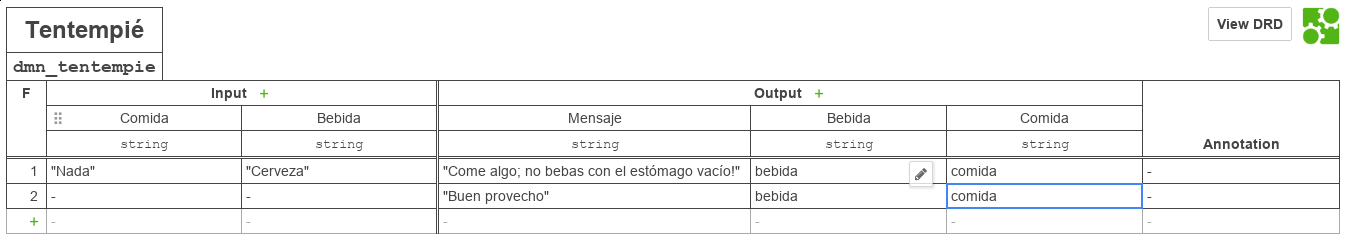
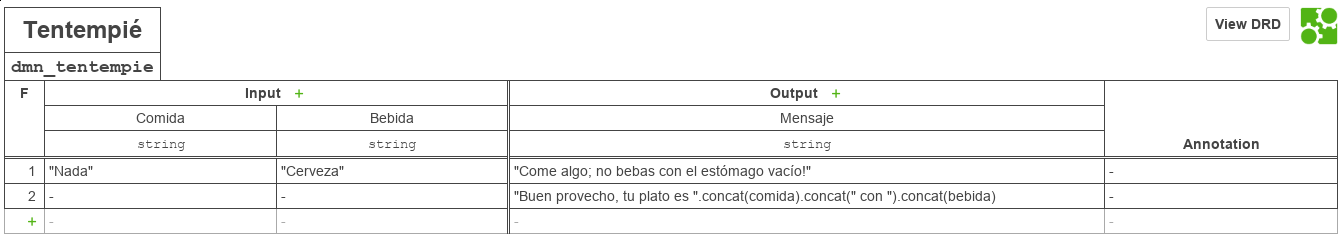
Simplificación ejercicio

diff --git a/DMN/Elegir tentempie/readme.md b/DMN/Elegir tentempie/readme.md
@@ -5,8 +5,8 @@
 | :---: | :---                              | :---                                                                                                                                                                                                                                                                                                                                                                                                                                                                                        |
 |     1 | **StartEvent**                    | 1. En la pestaña 'General', configura el parámetro **Initiator** = 'starter'<br>'starter' es una variable en la que almacenaremos el ID de la persona que inicia el flujo.                                                                                                                                                                                                                                                                                                                                                                                                                |
 |     2 | **'Ingresar datos' User Task** | 1 En la pestaña 'General', configura el parámetro **Assignee** = '${starter}'.<br>2. En la pestaña 'Forms' agrega variables del siguiente modo:<br>2a. **ID** = 'dia', **Type** = 'enum', **Label** = 'Día de la semana', <br> **Values** <br> **Id** = 'lunes', **Name** = 'Lunes' <br>  **Id** = 'martes', **Name** = 'Martes' <br> **Id** = 'miercoles', **Name** = 'Miércoles' <br> **Id** = 'jueves', **Name** = 'Jueves' <br> **Id** = 'viernes', **Name** = 'Viernes' <br> **Id** = 'sabado', **Name** = 'Sábado' <br> **Id** = 'domingo', **Name** = 'Domingo' <br>**Validation** <br> **name** = 'required'<br><br>2b. **ID** = 'hora', **Type** = 'long', **Label** = 'Hora del día', <br> **Validation** <br> **name** = 'required' <br> **name** = 'min', **Config** = '1' <br> **name** = 'max', **Config** = '24'. <br><br> 2c. **ID** = 'hambre', **Type** = 'enum', **Label** = 'Cuanta hambre tienes?', <br> **Values** <br> **Id** = 'poca', **Name** = 'Poca' <br> **Id** = 'media', **Name** = 'Media' <br> **Id** = 'mucha', **Name** = 'Mucha'<br><br>2d. **ID** = 'trabajo', **Type** = 'boolean', **Label** = 'Aún no terminas de trabajar?'                                 |
-|     3 | **'Mostrar resultados' User Task** | 1. En la pestaña 'General', configura el parámetro **Assignee** = '${starter}'.<br>2. En la pestaña 'Forms', agrega una variable del siguiente modo:<br>2a. **ID** = 'comida', **Type** = 'string', **Label** = 'Comida'. <br> **Validation** <br> **name** = 'readonly'.  <br><br>2b. **ID** = 'bebida', **Type** = 'string', **Label** = 'Bebida'. <br> **Validation** <br> **name** = 'readonly'<br><br>2c. **ID** = 'mensaje', **Type** = 'string', **Label** = 'Mensaje'. <br> **Validation** <br> **name** = 'readonly'                                                                                                                                                    |
-|     4 | **'Seleccionar tentempié' Business Rule Task** | 1. En la pestaña 'General', configura el parámetro **Implementation** = 'DMN', **Desicion Ref** = 'dmn_tentempie', **Result Variable** = 'resultado', **Map Desicion Result** = 'singleResult'. <br> 2. En la pestaña "Input/Output" agregar los siguientes "Output Parameters": <br> 2a. **Name** = 'comida', **Type** = 'Text', **Value** = '${resultado.comida}' <br>   2b. **Name** = 'bebida, **Type** = 'Text', **Value** = '${resultado.bebida}' <br> 2c. **Name** = 'mensaje', **Type** = 'Text', **Value** = '${resultado.mensaje}'|
+|     3 | **'Mostrar resultados' User Task** | 1. En la pestaña 'General', configura el parámetro **Assignee** = '${starter}'.<br>2. En la pestaña 'Forms', agrega una variable del siguiente modo:<br>2a. **ID** = 'mensaje', **Type** = 'string', **Label** = 'Mensaje'. <br> **Validation** <br> **name** = 'readonly'                                                                                                                                                    |
+|     4 | **'Seleccionar tentempié' Business Rule Task** | 1. En la pestaña 'General', configura el parámetro **Implementation** = 'DMN', **Desicion Ref** = 'dmn_tentempie', **Result Variable** = 'mensaje', **Map Desicion Result** = 'singleEntry'. <br>|
 |     5 | **Modelo**         | 1. Sin seleccionar ningún objeto, asegure que el 'General' esté seleccionada la opción 'Executable'.<br> 2. Ingresar los siguentes datos: <br>**Id** = 'process_tentempie' <br> **Name** = 'Elegir tentempié'.                                                                                                                                                                                                                                                                                                               |
 
 # DMN
@@ -74,6 +74,7 @@ Llenar las tablas como aparece en la figura.
 ![DMN Table](img/dmn3.png)
 
 Llenar las tablas como aparece en la figura.
+Note que la función **concat** sirve para unir distintos **strings**.
 
 ### Información importante:
 
@@ -93,5 +94,3 @@ Llenar las tablas como aparece en la figura.
 | Columna | Output Label | Output Name | Type   |
 | :---:   | :---:        | :---:       | :---:  |
 |       1 | Mensaje      | mensaje     | string |
-|       2 | Comida       | comida      | string |
-|       3 | Bebida       | bebida      | string |
